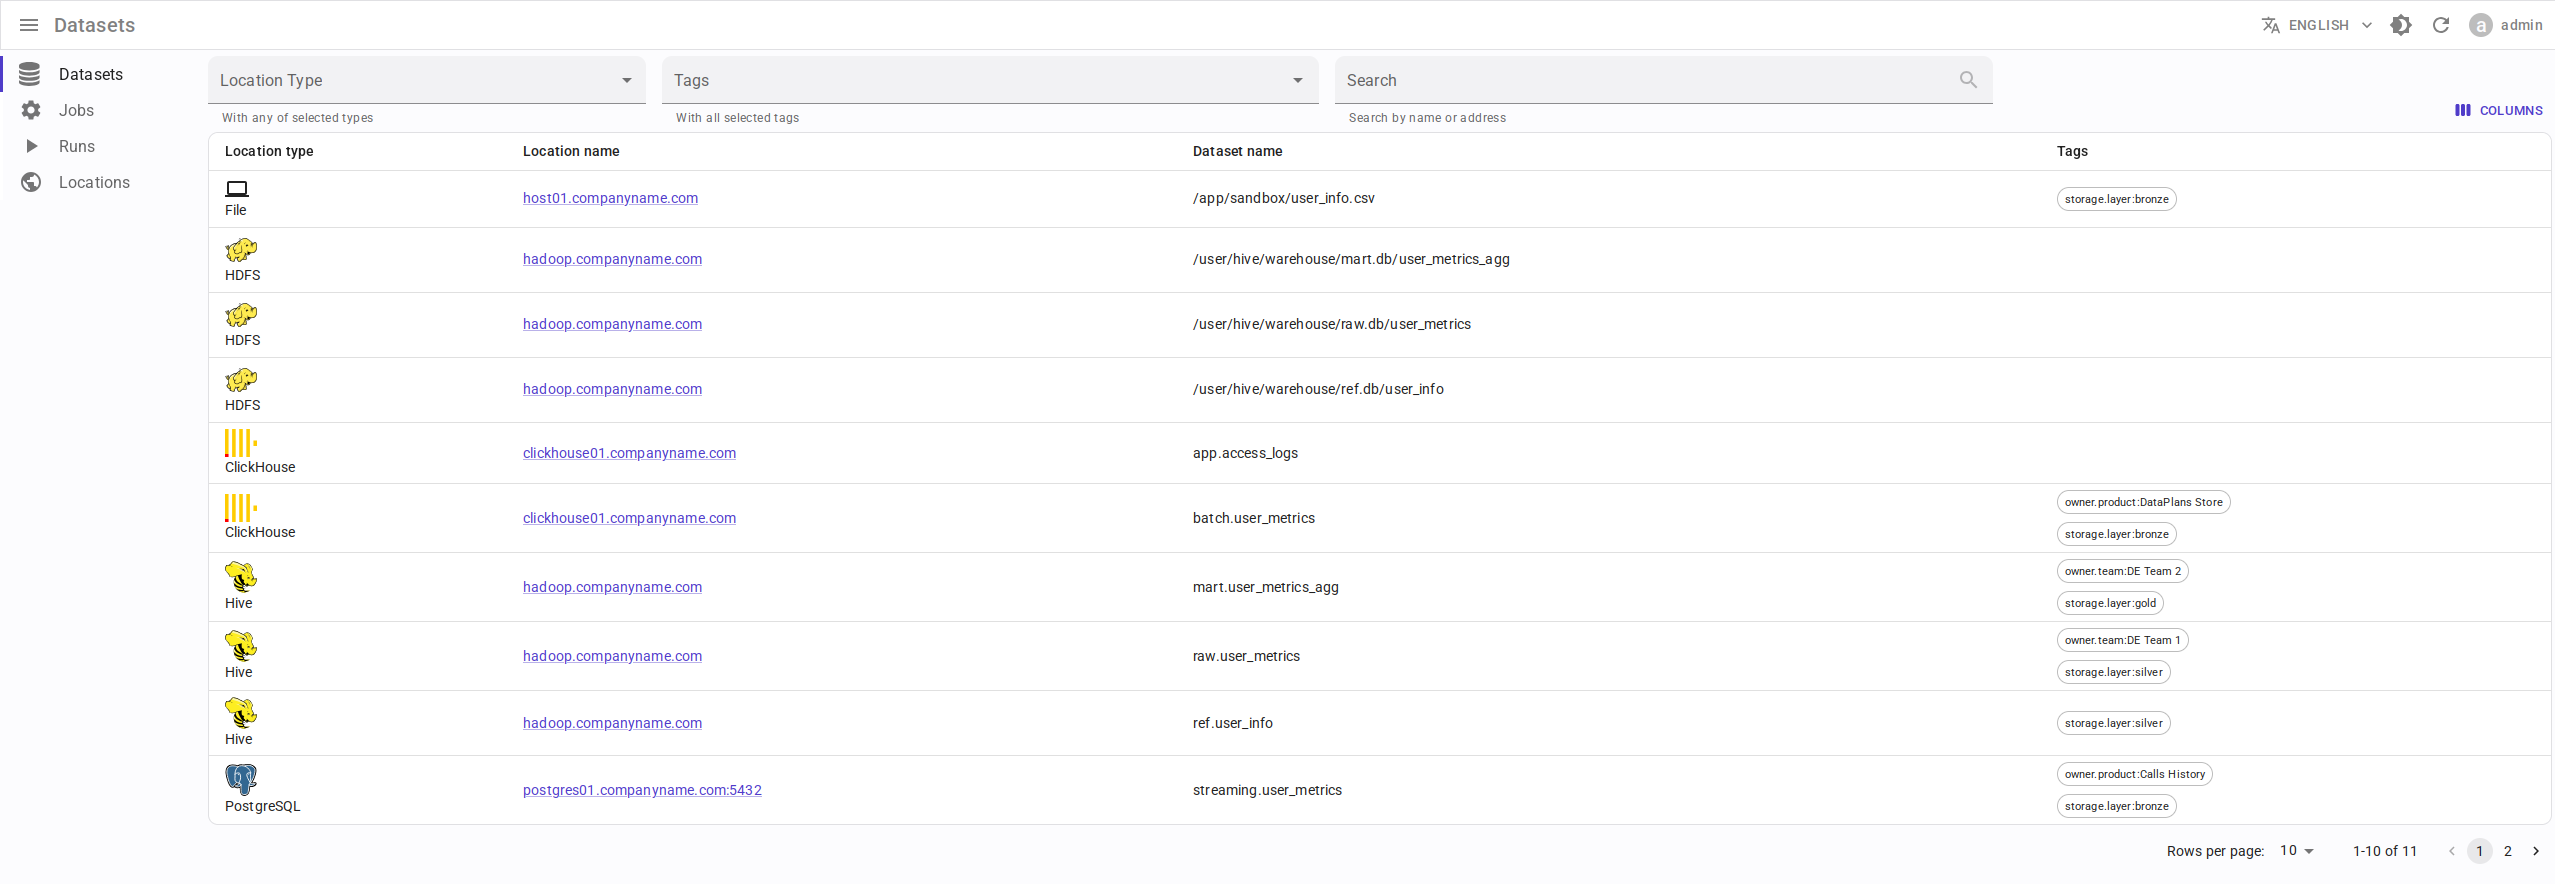
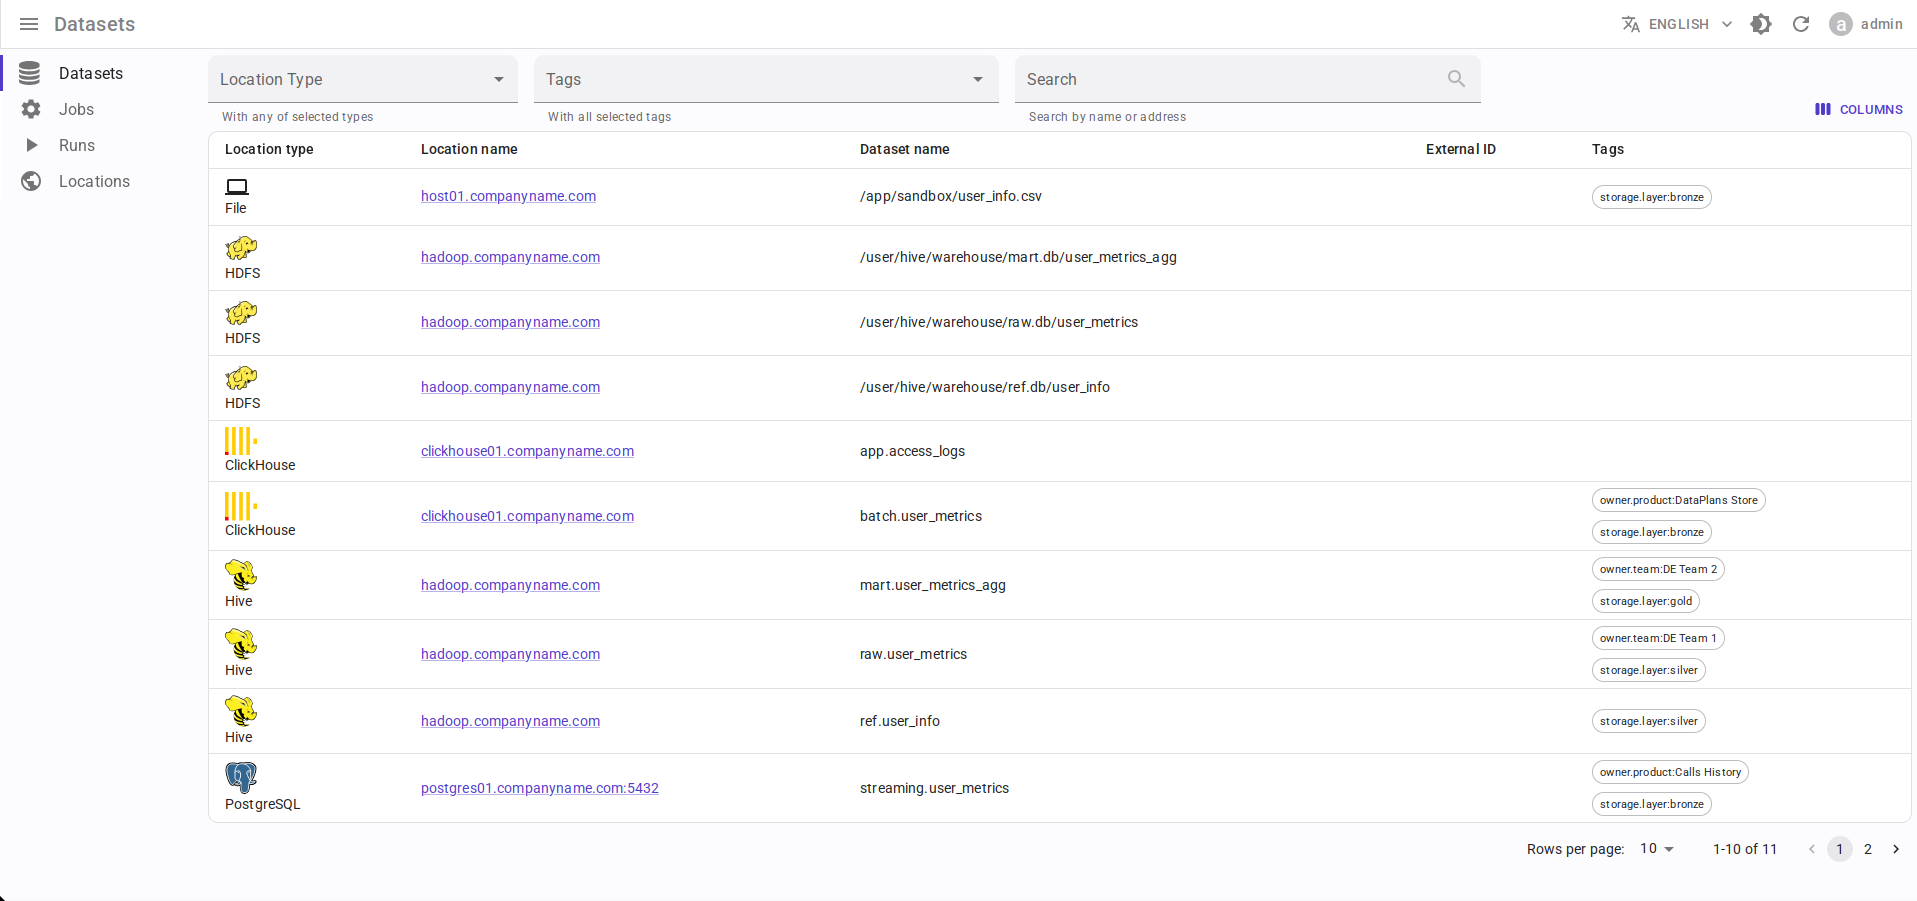
[DOP-23676] Update screenshots

diff --git a/docs/entities/index.rst b/docs/entities/index.rst
@@ -113,6 +113,8 @@ That's why the information about datasets is very limited:
 - ``location: Location`` - Location where data is actually stored in, like RDMBS instance or cluster.
 - ``name: str`` - qualified name of Dataset, like ``mydb.myschema.mytable`` or ``/app/warehouse/hive/managed/myschema.df/mytable``
 - ``schema: Schema | None`` - schema of dataset.
+- ``external_id: string | None`` - identifier of dataset in some third-party system.
+- ``external_url: string | None`` - URL of dataset in some third-party system.
 - ``tags: list[Tag]`` - tags of dataset.
 
 .. image:: dataset_list.png

diff --git a/mddocs/entities/index.md b/mddocs/entities/index.md
@@ -114,6 +114,9 @@ That's why the information about datasets is very limited:
 - `location: Location` - Location where data is actually stored in, like RDMBS instance or cluster.
 - `name: str` - qualified name of Dataset, like `mydb.myschema.mytable` or `/app/warehouse/hive/managed/myschema.df/mytable`
 - `schema: Schema | None` - schema of dataset.
+- `external_id: string | None` - identifier of dataset in some third-party system.
+- `external_url: string | None` - URL of dataset in some third-party system.
+- `tags: list[Tag]` - tags of dataset.
 
 ![dataset list](dataset_list.png)
 

diff --git a/docs/reference/database/structure.rst b/docs/reference/database/structure.rst
@@ -38,6 +38,8 @@ Database structure
         * location_id: bigint <<FK>>
         * name: varchar(256)
         search_vector: tsvector
+        external_id: text null
+        external_url: text null
     }
 
     entity dataset_symlink {

diff --git a/mddocs/reference/database/structure.md b/mddocs/reference/database/structure.md
@@ -30,6 +30,8 @@ erDiagram
         bigint location_id  UK, FK
         varchar(256) name UK
         tsvector search_vector
+        external_id text
+        external_url text
     }
 
     dataset_symlink {
